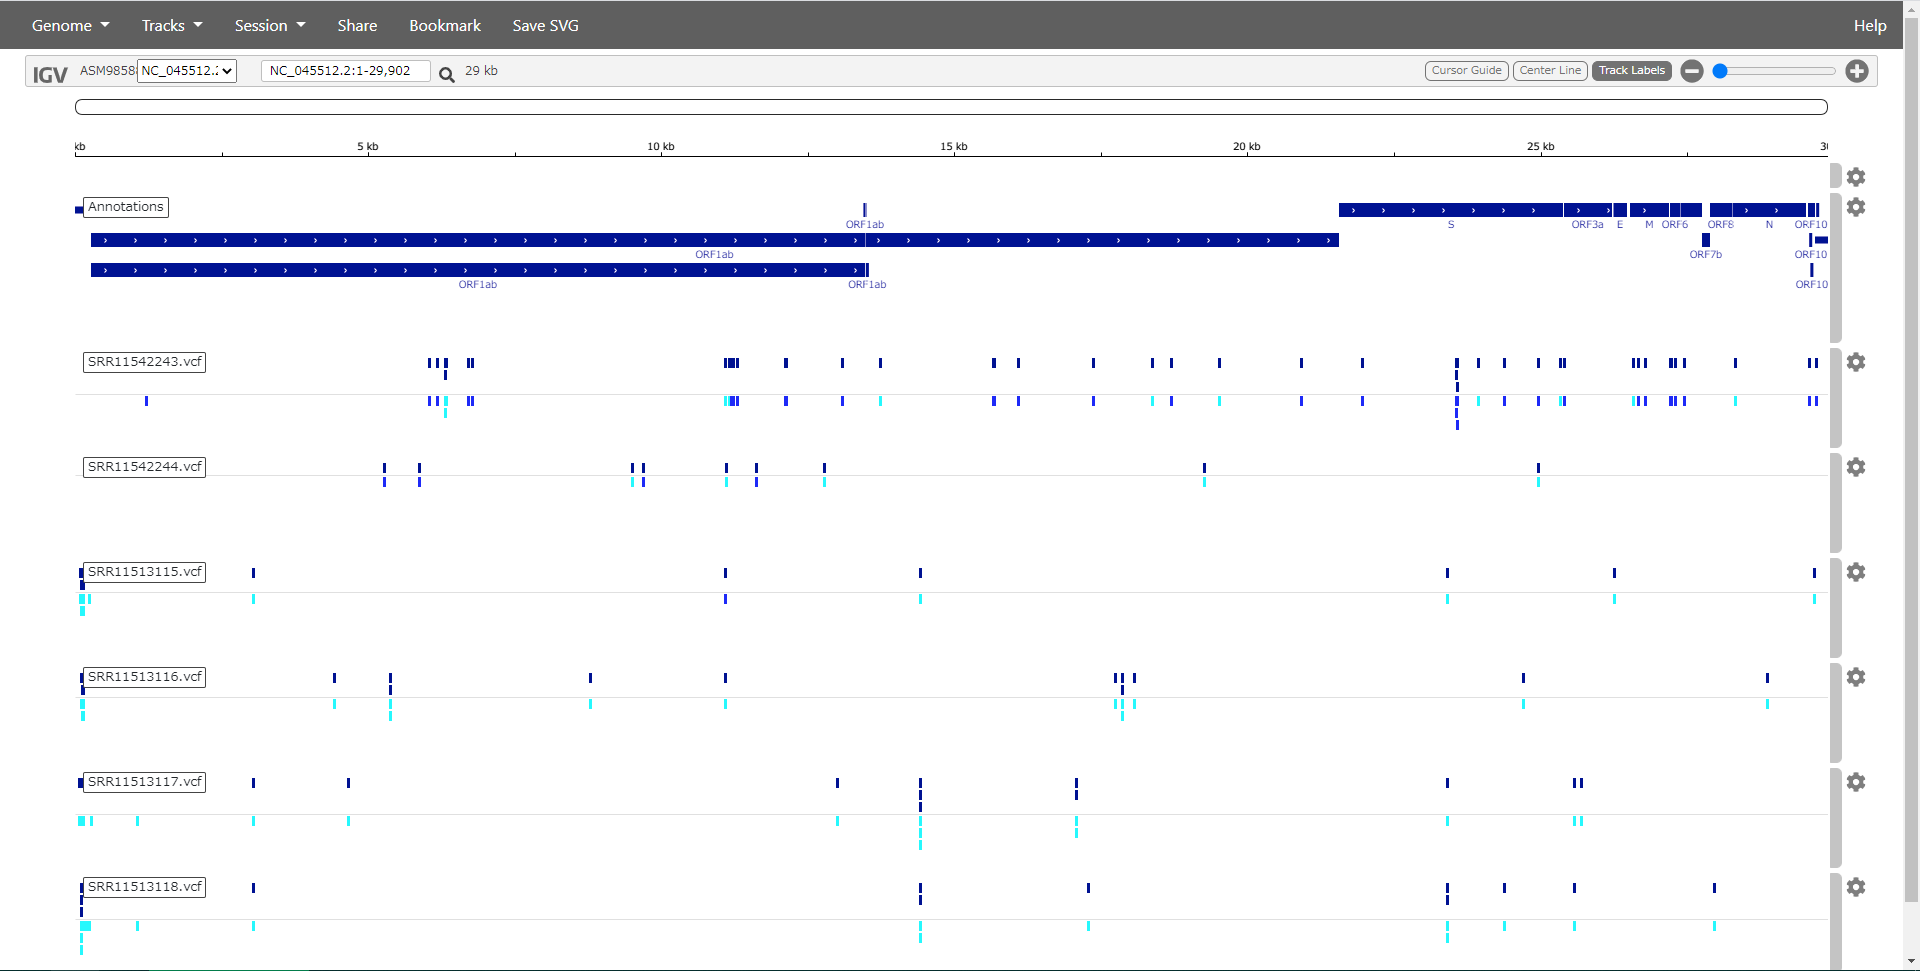
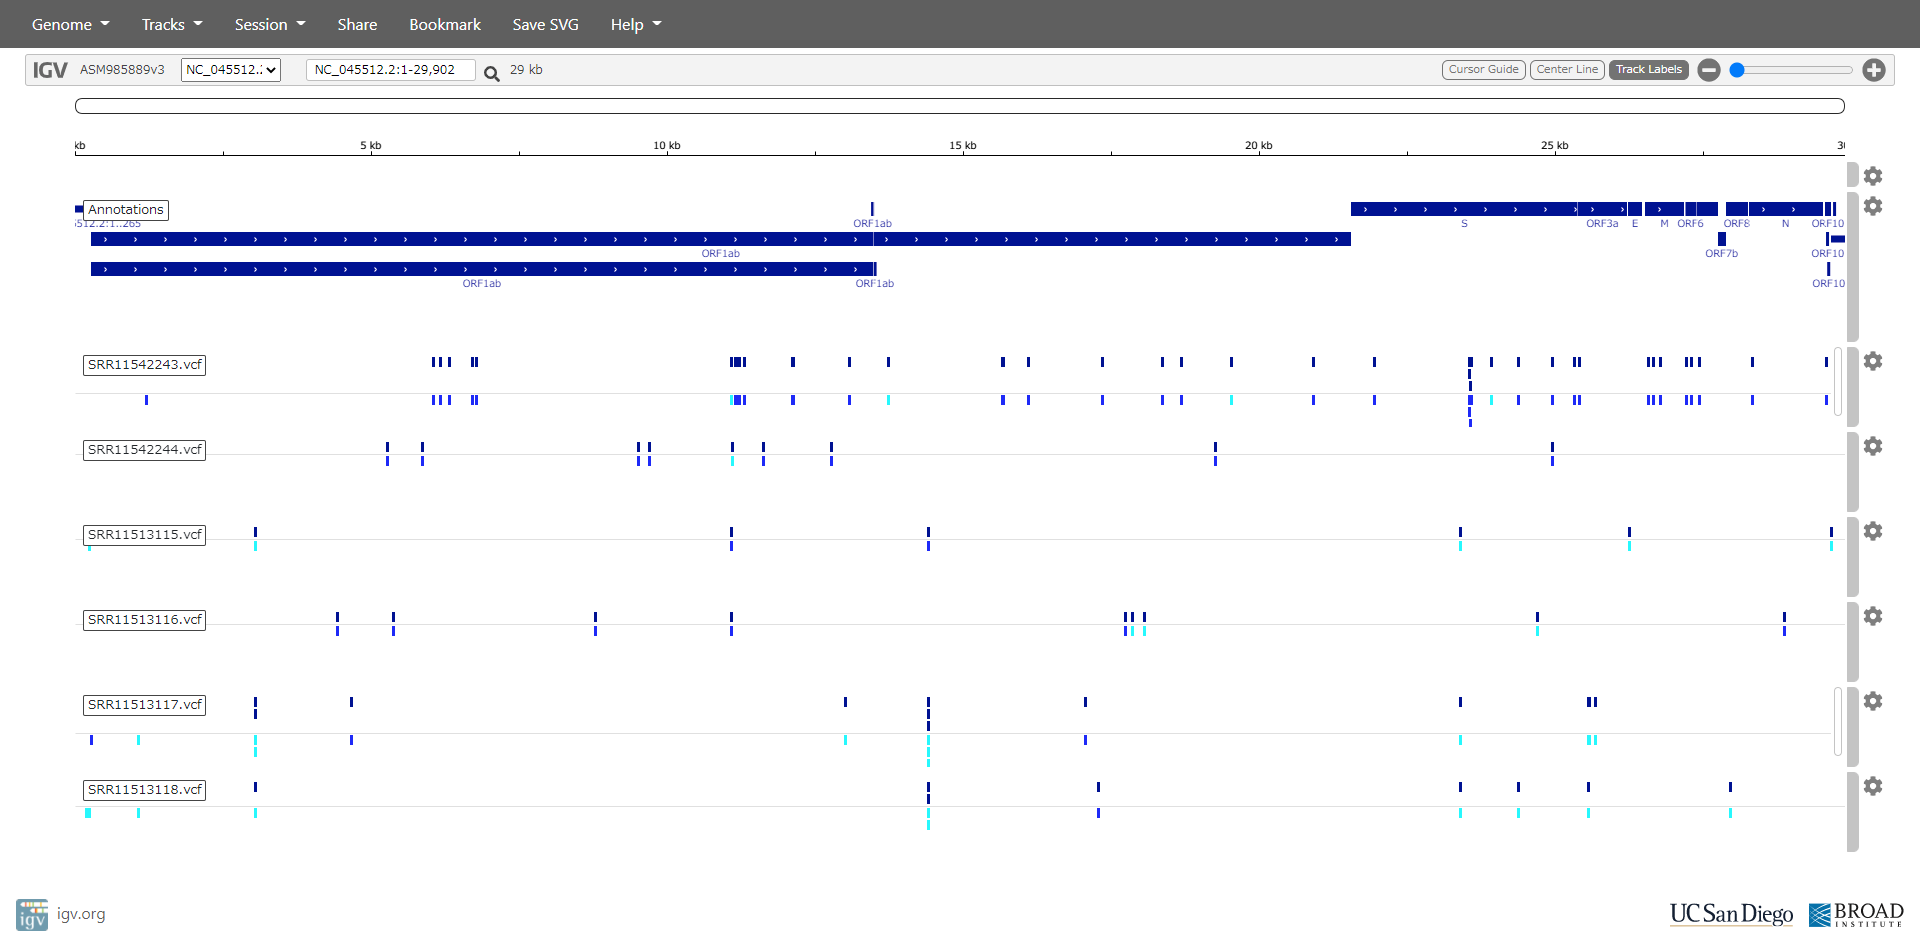
update covid19 page

diff --git a/covid19/index_ja.html b/covid19/index_ja.html
@@ -84,6 +84,7 @@ Webアプリケーション <a href = "https://igv.org/app/" target = "_blank">h
     もしIVGを自分のコンピュータで起動させて見たい場合は from <a href = "http://software.broadinstitute.org/software/igv/download" target = "_blank">http://software.broadinstitute.org/software/igv/download</a>よりプログラムをダウンロードしてインストールしてください。<br>
     IVG のGenomesのタブをクリックして、"SARS-CoV-2.fasta"と"SARS-CoV-2.gff"をロードします。<br>
     Fileタブをクリックして"ped/SRR11513115/SRR11513115.vcf"等にあるvcfファイルをロードして多型を表示させます。<br>
+    <li>プログラムを一部修正したので、以前と少し見え方が変わっています。5'末端に近い変異で、正確にリード数がカウントできず、曖昧な部分がありましたので、末端からリード長分進んだところまでの変異は表示しないようにしました。
     <li>双方向アラインメント上の多型の確認<br>
     pedディレクトリで<br><br>
 $ perl search.pl target=target,chr=chromosome,pos=position<br><br>

diff --git a/covid19/index.html b/covid19/index.html
@@ -68,6 +68,7 @@ Web application of IVG <a href = "https://igv.org/app/" target = "_blank">https:
     If you want to view by your computer, download and install IVG from <a href = "http://software.broadinstitute.org/software/igv/download" target = "_blank">http://software.broadinstitute.org/software/igv/download</a>.<br>
     Click Genomes tab of IVG and load "SARS-CoV-2.fasta" and "SARS-CoV-2.gff" files.<br>
     Click File tab and load "ped/SRR11513115/SRR11513115.vcf" and other vcf files or drop files on the main window.<br>
+    <li>Old vcf data contain ambiguous mutations near the 5'-end. I update the PED program. New version filters mutations from 5'-end to the length of reads.
     <li><b>Check mutation in bidirectional alignments</b><br>
     In the ped directory,<br>
 $ perl search.pl target=target,chr=chromosome,pos=position<br><br>
